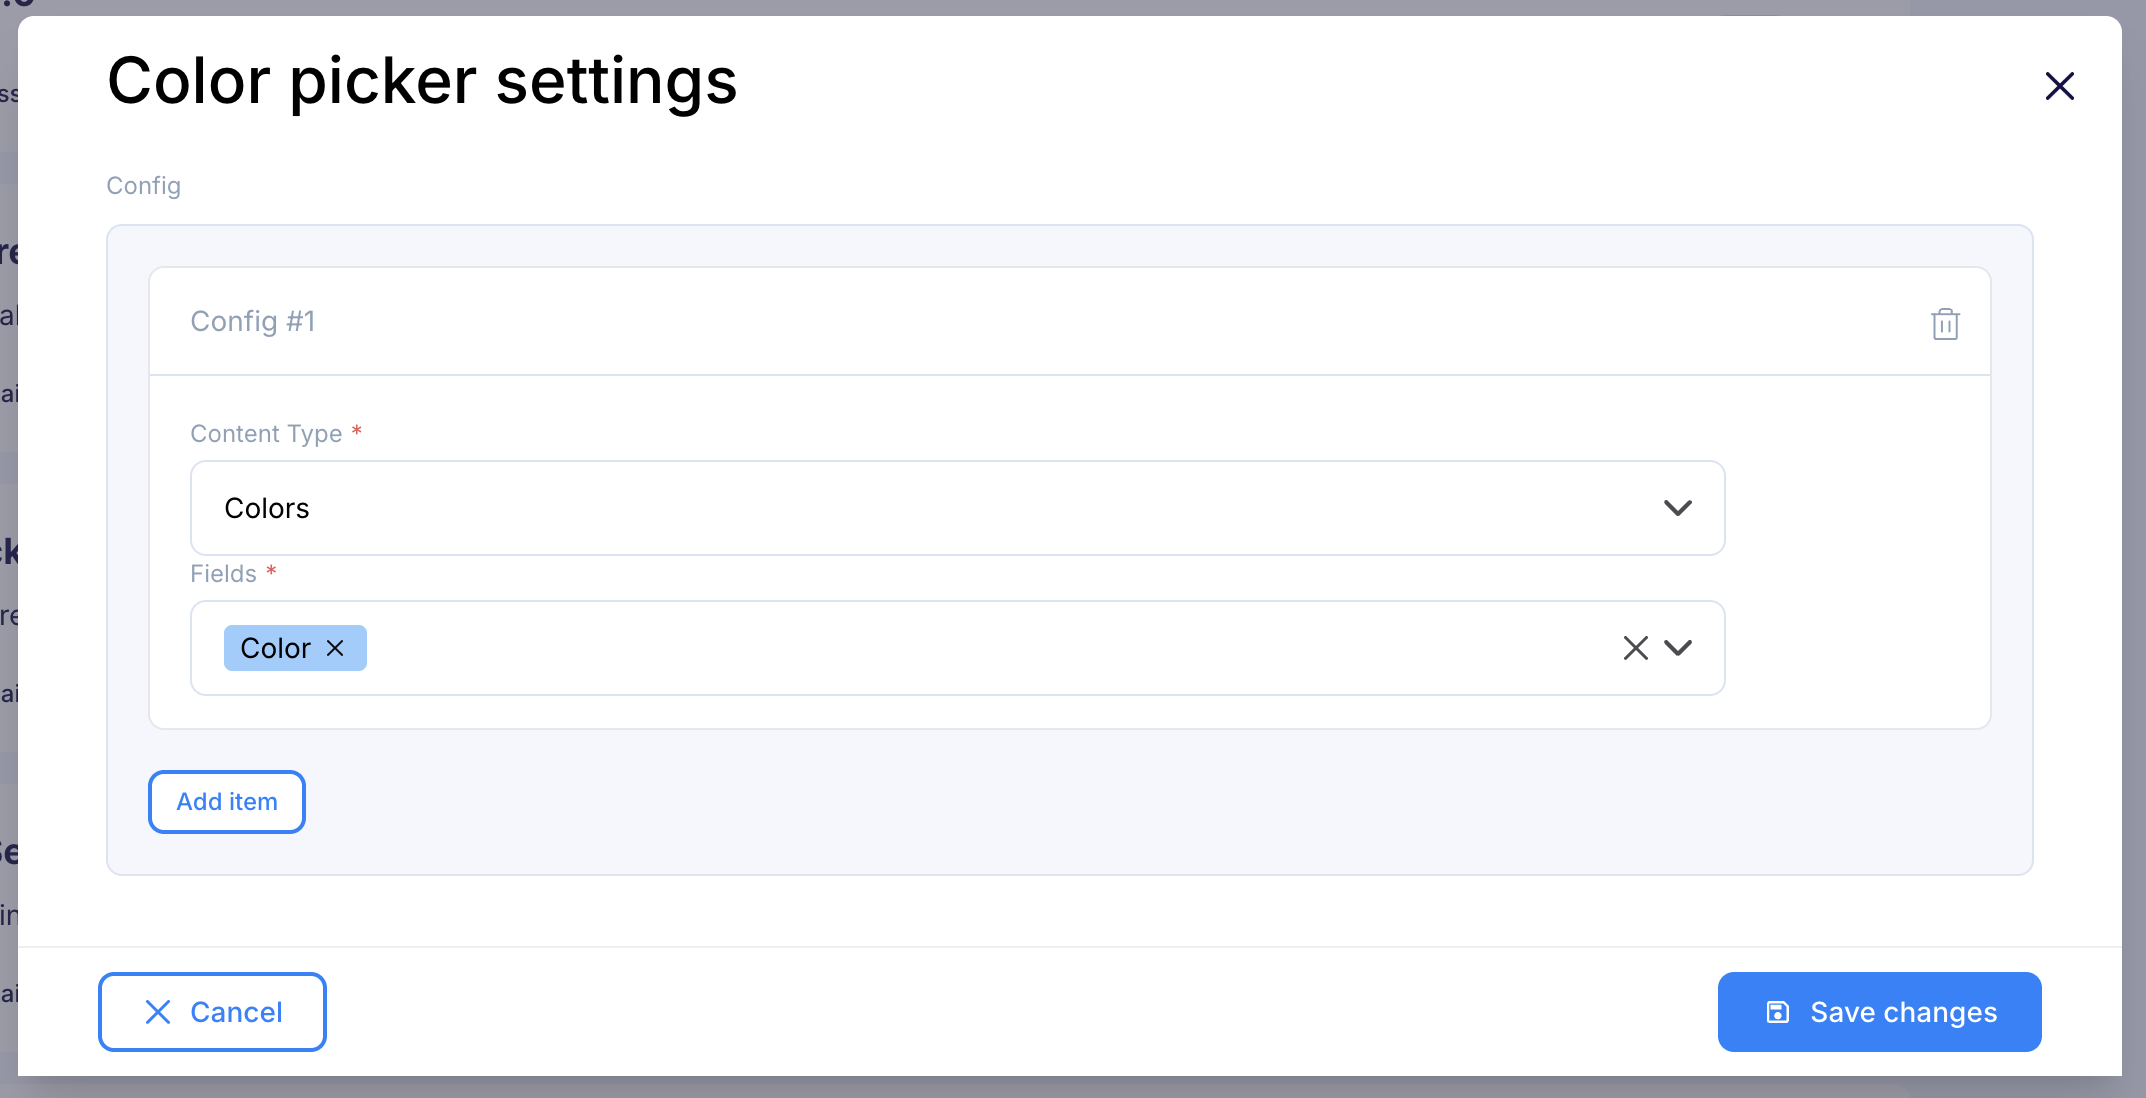
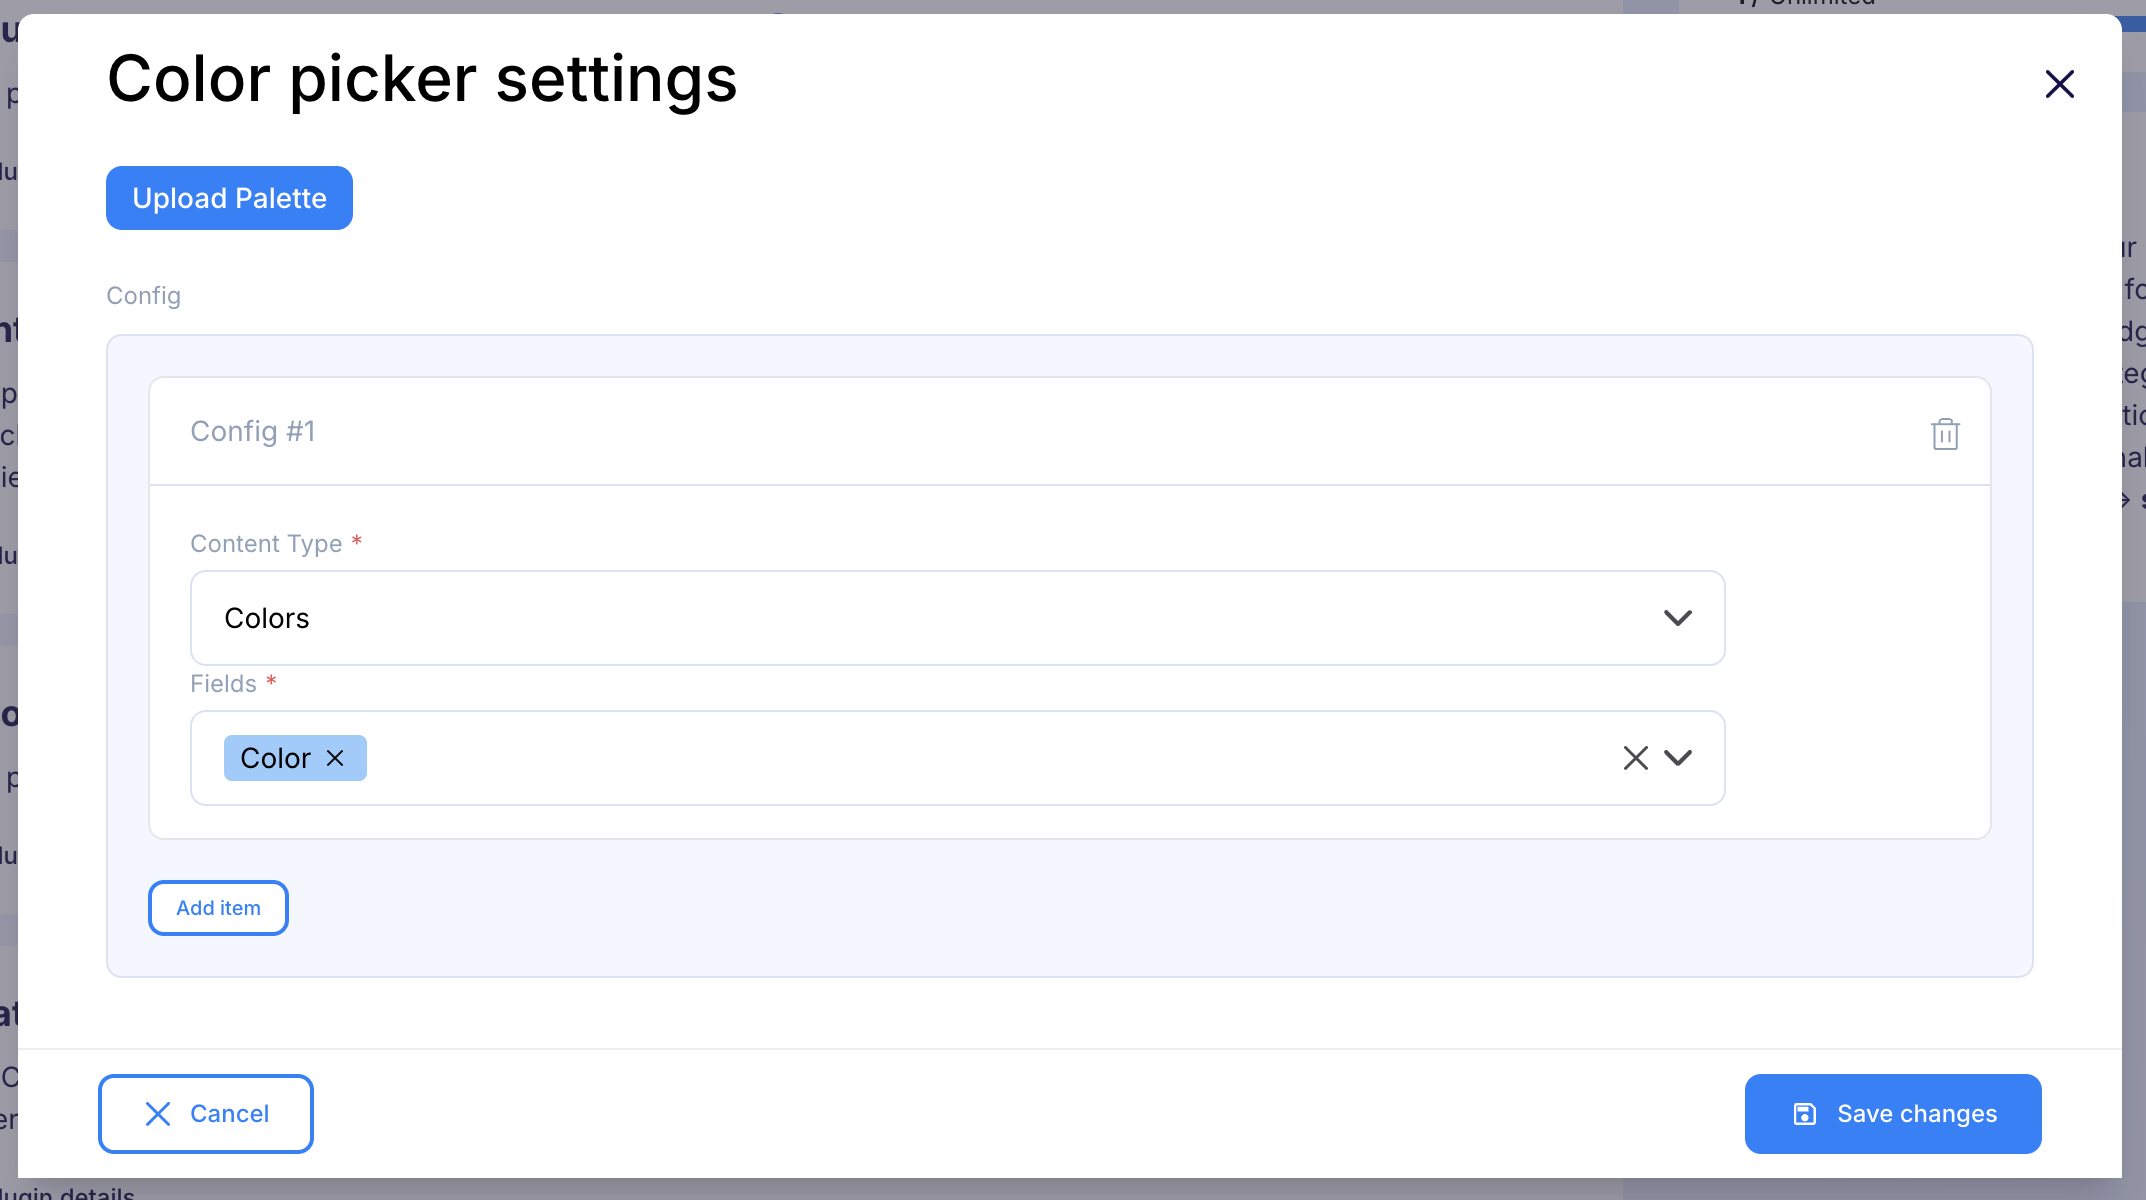
update readme

diff --git a/README.md b/README.md
@@ -10,7 +10,13 @@ The Flotiq Color Picker plugin transforms standard text input fields into intuit
 
 Transformed text field into color picker:
 
-<img src=".docs/input-color-picker.png" alt="Input with color picker" width="400"/>
+**Without predefined color palette**
+
+<img src=".docs/input-color-picker.png" alt="Color picker input" width="400"/>
+
+**With predefined color palette**
+
+<img src=".docs/input-color-picker-with-palette.png" alt="Color picker input with color palette" width="400"/>
 
 ## Configuring the plugin
 
@@ -20,7 +26,65 @@ Transformed text field into color picker:
 
 <img src=".docs/color-picker-settings.png" alt="Color picker configuration" width="400"/>
 
-After saving the plugin, the selected fields in your content type definition will be automatically updated with a validation pattern (regex) to ensure proper hex color code format. To maintain color validation functionality, please keep this pattern intact and avoid manual removal.
+After saving the plugin, if custom palette was not uploaded, the selected fields in your content type definition will be automatically updated with a validation pattern (regex) to ensure proper hex color code format. To maintain color validation functionality, please keep this pattern intact and avoid manual removal.
+
+### Custom Color Palette
+
+To use a predefined palette:
+
+1. Click "Upload Palette" in the plugin settings.
+2. Choose a JSON file with the correct format (see examples below).
+
+#### Palette Format
+
+The color palette must be a JSON array containing arrays of colors. Each color can be either:
+- A simple string (hex color code)
+- An object with `name` (any string) and `value` (hex color code) properties
+
+**Example 1: Simple hex colors**
+```json
+[
+  [
+    "#F0F9FF",
+    "#E7F1FE"
+  ],
+  [
+    "#F7FEE7",
+    "#E4F9B9"
+  ]
+]
+```
+
+**Example 2: Named colors**
+```json
+[
+  [
+    {
+      "name": "primary-50",
+      "value": "#F0F9FF"
+    },
+    {
+      "name": "primary-100",
+      "value": "#E7F1FE"
+    }
+  ],
+  [
+    {
+      "name": "secondary-50",
+      "value": "#F7FEE7"
+    },
+    {
+      "name": "secondary-100",
+      "value": "#E4F9B9"
+    }
+  ]
+]
+```
+
+If the format is correct, you should see the chosen file in the plugin settings:
+
+<img src=".docs/color-picker-settings-palette.png" alt="Color picker palette configuration" width="400"/>
+
 
 # Development
 
